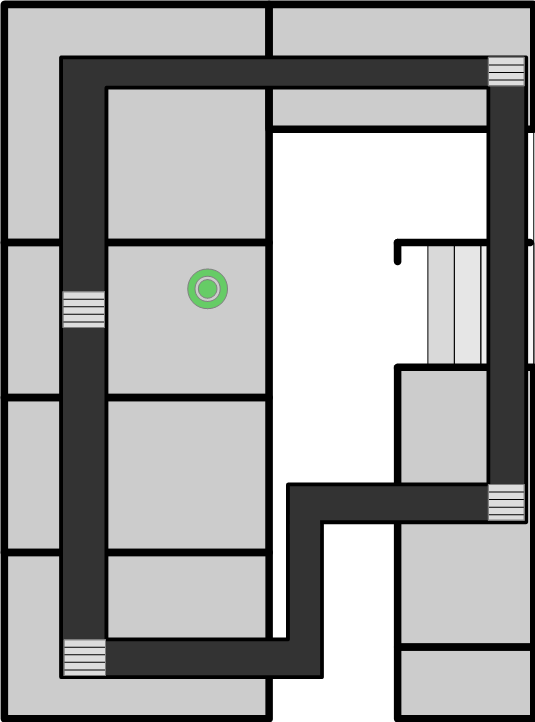
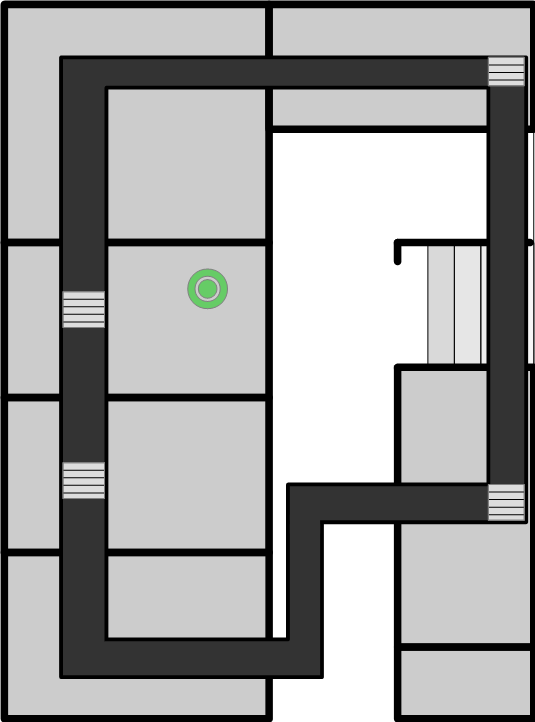
Vent FINISH !

Changed region(s): [[0.0897, 0.6399, 0.2093, 0.7008], [0.1196, 0.8837, 0.2093, 0.9446]]

diff --git a/JS/element.js b/JS/element.js
@@ -193,8 +193,9 @@ function createVent() {
     let map = document.getElementById("map")
 
     let vent = document.createElement("div")
-    vent.id = "vent"
+    vent.id = "cam"+(document.getElementsByClassName("cam").length+1)
     vent.classList.add("cam")
+    vent.classList.add("vent")
     vent.innerHTML = ""
     vent.style.left = "1%"
     
@@ -208,6 +209,7 @@ function createVent() {
         let map = document.getElementById("imgMap")
         let doors = document.getElementById("doors")
         let cam = document.getElementsByClassName("selectedCam")[0]
+        let t = document.getElementById("terminal")
 
         startSound("lock3")
         map.src="RESOURCES/Levels/Level1/mapVent.png"
@@ -215,22 +217,36 @@ function createVent() {
         cam.style.opacity = "0"
         linkCam(vent)
         
-        
-        let terminal = document.getElementById("terminal")
-        terminal.pointerEvents = "all"
-        terminal.style.opacity = "0.9"
+        t.style.opacity = "0.9"
+        t.style.pointerEvents = "all"
         saisie = document.createElement("INPUT")
+        saisie.id = "saisie"
         saisie.classList.add("saisie")
         saisie.setAttribute('type', 'text');
-        terminal.appendChild(saisie)
+        saisie.addEventListener('keypress', function (e) {
+            var key = e.which || e.keyCode;
+            if (key === 13) {
+              let test = saisie.value
+              saisie.value=""
+              if(test == "purgeVentConduct"){
+                startSound("steamSound1")
+                ventPurged=true
+              }         
+            }
+
+
+        });
+        t.appendChild(saisie)
+        saisie.focus()
+        saisie.select()
     }
     game.appendChild(vent)
     arrangeCam();
 }
 
 function deleteVent() {
-    if(undefined != document.getElementById("vent")) {
-        var v = document.getElementById("vent")
+    if(undefined != document.getElementsByClassName("vent")) {
+        var v = document.getElementsByClassName("vent")[0]
         game.removeChild(v)
     }
 }
@@ -253,11 +269,15 @@ function createCam(sendId) {
         var map = document.getElementById("imgMap")
         var doors = document.getElementById("doors")
         var terminal = document.getElementById("terminal")
+        if(undefined != document.getElementById("saisie")) {
+            var saisie = document.getElementById("saisie")
+            terminal.removeChild(saisie)
+        }
         startSound("lock3")
         var screens = document.getElementsByClassName("screen")
 
         terminal.style.opacity = "0"
-        terminal.pointerEvents = "none"
+        terminal.style.pointerEvents = "none"
         if(interval != undefined ) {
             clearInterval(interval)
         }

diff --git a/JS/monster.js b/JS/monster.js
@@ -10,7 +10,7 @@ class Monster {
         this.room = null
         this.lastRoom = null
         this.triggered = false
-        this.ventAccess = 0 //Math.floor(Math.random() * 3)+2
+        this.ventAccess = 1 //Math.floor(Math.random() * 3)+2
     }
     
     initialize(room) {
@@ -22,16 +22,19 @@ class Monster {
     }
     
     moove() {
-        if(this.ventAccess==0 && this.room.hasVent) {
+        if(this.ventAccess<=0 && this.room.hasVent) {
             console.log('VENT')
             clearInterval(moving)
             this.ventAccess = Math.floor(Math.random() * 3)+2;
             ventEvent()
+            console.log("nope")
             setTimeout(function(){
-                monster.room = ventRooms[Math.floor(Math.random() * ventRooms.length)]
+                let exit = ventRooms[Math.floor(Math.random() * ventRooms.length-1)+1]
+                console.log(exit)
+                monster.room = exit
                 moving = setInterval("monster.moove()", delay)
 
-            },8000)
+            },10000)
         }
         else {
             let moves = this.room.getPath()

diff --git a/JS/organize.js b/JS/organize.js
@@ -69,8 +69,8 @@ function loadLevel1() {
     
     r1 = new room(1, document.getElementById("screen3") ,1 ,false)
     r2 = new room(2, null ,2 ,true)
-    r3 = new room(3, document.getElementById("screen4") ,1 ,false)
-    r4 = new room(4, null ,2 ,true)
+    r3 = new room(3, document.getElementById("screen4") ,1 ,true)
+    r4 = new room(4, null ,2 ,false)
     r5 = new room(5, null ,2 ,true)
     r6 = new room(6, document.getElementById("screen1") ,1 ,false)
     r7 = new room(7, document.getElementById("screen2") ,1 ,false)
@@ -150,6 +150,14 @@ function loadLevel1() {
     terminal.classList.remove("screen")
     terminal.classList.add("terminal")
     removeAllChilds(terminal)
+    let p = document.createElement("p")
+    p.innerHTML = "Pour purger la ventilation, tapez \"purgeVentConduct\""
+    p.style.position = "absolute"
+    p.style.color = "white"
+    p.style.top = "1%"
+    p.style.left = "5%"
+    terminal.appendChild(p)
+
 
     var screens = document.getElementsByClassName("screen")
     var i = 0

diff --git a/JS/event.js b/JS/event.js
@@ -206,20 +206,16 @@ function leaveInstructions() {
 
 function ventEvent(room){
     startSound("ventSound1")
-    let i= 10000
-    let cam = document.getElementsByClassName("selectedCam")[0]
-    cam.style.opacity = "0"
-    let terminal = document.getElementById("terminal")
-    terminal.style.opacity = "0.9"
-    saisie = document.createElement("INPUT")
-    saisie.classList.add("saisie")
-    saisie.setAttribute('type', 'text');
-    saisie.pointerEvents = "all"
-    terminal.appendChild(saisie)
+    let i= 10
 
     let time = setInterval(function(){
         i--
+        if(ventPurged){
+            clearInterval(time)
+            ventPurged=false;
+        }
         if(i==0) {
+            startSound("ventSound2")
             clearInterval(time)
             loadLost()
             resetLevel()

diff --git a/CSS/main.css b/CSS/main.css
@@ -370,6 +370,9 @@ body {
     position: absolute;
     top:10%;
     left: 10%;
+    background: none;
+    border:none;
+    color:white;
 }
 
 .screen {

diff --git a/JS/room.js b/JS/room.js
@@ -1,5 +1,6 @@
 var Allrooms = []
 var ventRooms = []
+ventPurged = false
 
 class room {
     
